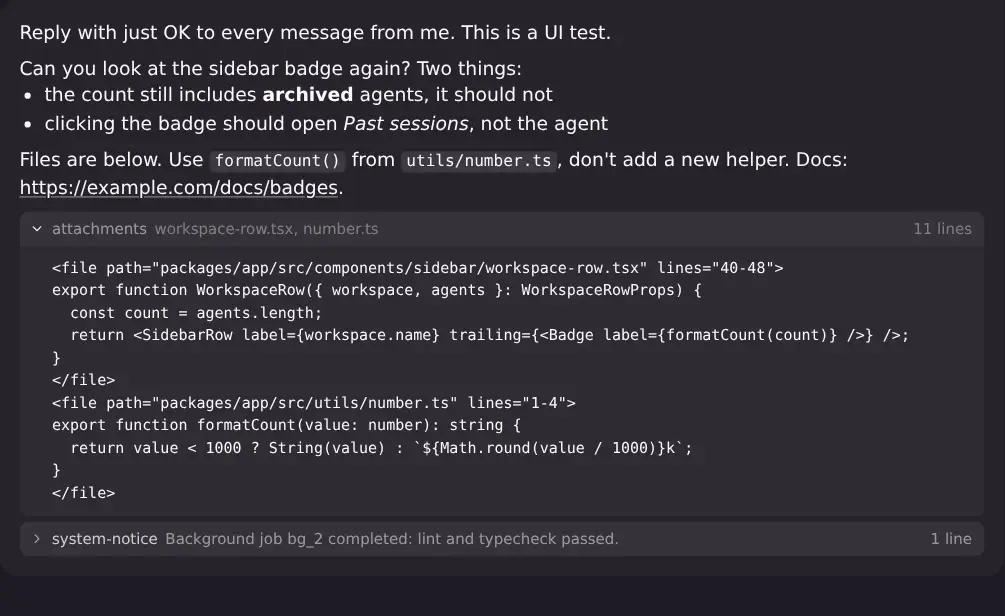
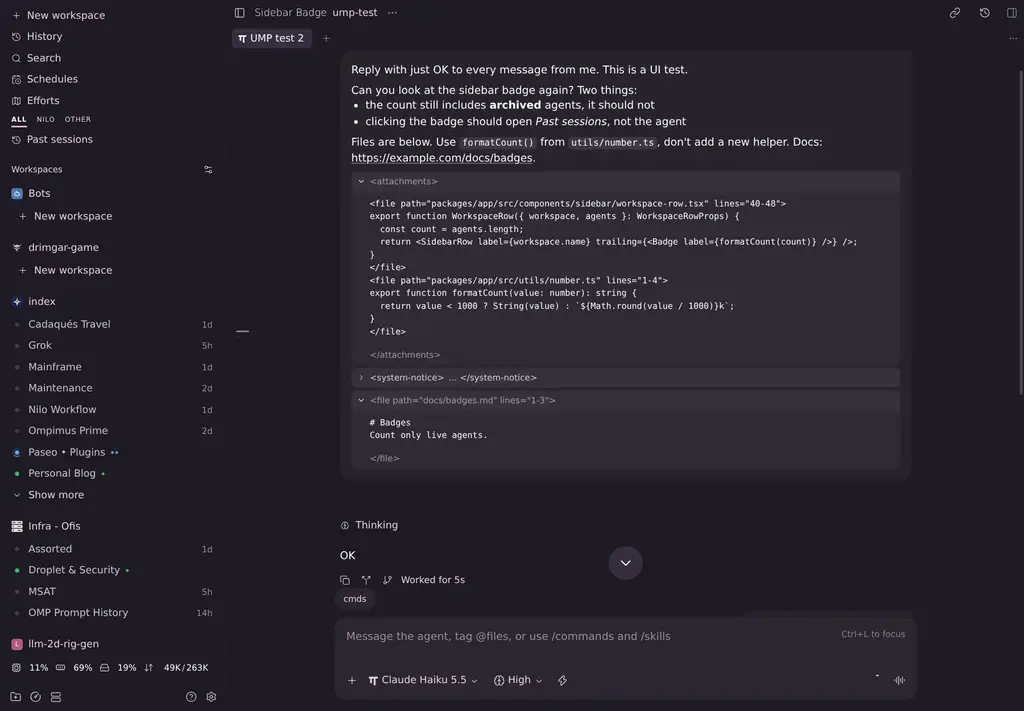
user-message-polish: show fold rows as the literal tags
Folded: '› <tag attrs> … </tag>'. Opened: the opening tag as header, the
content, and the closing tag as a footer row in the same shape. Replaces
the tag name, derived hint and line count, which hid the original text.

diff --git a/paseo-plugins/user-message-polish/client/web.ts b/paseo-plugins/user-message-polish/client/web.ts
@@ -210,24 +210,27 @@ function renderFold(fold: Extract<Segment, { kind: "fold" }>, startOpen: boolean
   chevron.append(path);
   const head = el("div", { class: "ump-head", role: "button", tabindex: "0", "data-paseo-markdown-ignore": "true" }, [
     chevron,
-    el("span", { class: "ump-tag" }, [fold.tag]),
-    el("span", { class: "ump-hint" }, [fold.hint]),
-    el("span", { class: "ump-lines" }, [`${fold.lines} ${fold.lines === 1 ? "line" : "lines"}`]),
+    el("span", { class: "ump-open" }, [fold.open]),
+    el("span", { class: "ump-shut" }, [`… ${fold.close}`]),
   ]);
-  head.title = fold.hint;
+  head.title = fold.open;
   const box = el("div", { class: "ump-fold" }, [head]);
   const setOpen = (open: boolean) => {
     box.toggleAttribute("data-open", open);
     head.setAttribute("aria-expanded", String(open));
-    if (open && box.childNodes.length === 1) box.append(el("div", { class: "ump-body", "data-pmono": "" }, [fold.body]));
-    if (!open && box.childNodes.length > 1) box.lastChild!.remove();
+    if (open && box.childNodes.length === 1) {
+      const foot = el("div", { class: "ump-head ump-foot", "data-paseo-markdown-ignore": "true" }, [fold.close]);
+      foot.addEventListener("click", toggle);
+      box.append(el("div", { class: "ump-body", "data-pmono": "" }, [fold.body]), foot);
+    }
+    if (!open) while (box.childNodes.length > 1) box.lastChild!.remove();
   };
-  setOpen(startOpen);
-  const toggle = () => {
+  function toggle() {
     const open = !box.hasAttribute("data-open");
     setOpen(open);
     remember(open);
-  };
+  }
+  setOpen(startOpen);
   head.addEventListener("click", toggle);
   head.addEventListener("keydown", (event) => {
     if (event.key !== "Enter" && event.key !== " ") return;
@@ -257,18 +260,19 @@ const CSS = `
    text steps down and the chevron goes full strength; the body is the same tint at half. */
 .ump-fold { border-radius: 8px; overflow: hidden; }
 .ump-fold + .ump-fold { margin-top: 4px; }
-.ump-head { display: flex; align-items: center; gap: 6px; height: 28px; box-sizing: border-box; padding: 0 10px 0 8px; background: ${MIX(7)}; font-size: 12px; line-height: 18px; cursor: pointer; user-select: none; -webkit-user-select: none; white-space: nowrap; }
+.ump-head { display: flex; align-items: center; gap: 6px; height: 28px; box-sizing: border-box; padding: 0 10px 0 8px; background: ${MIX(7)}; font-family: ui-monospace, SFMono-Regular, Menlo, Consolas, monospace; font-size: 12px; line-height: 18px; cursor: pointer; user-select: none; -webkit-user-select: none; white-space: nowrap; }
 .ump-head:hover { background: ${MIX(10)}; }
 .ump-head:focus-visible { outline: 1px solid ${MIX(45)}; outline-offset: -1px; border-radius: 8px; }
 .ump-chev { width: 12px; height: 12px; flex: none; fill: none; stroke: ${MIX(52)}; stroke-width: 2; stroke-linecap: round; stroke-linejoin: round; transition: transform 120ms ease; }
 .ump-fold[data-open] .ump-chev { transform: rotate(90deg); stroke: currentColor; }
-.ump-tag { flex: none; color: ${MIX(78)}; }
-/* One clamped line instead of nowrap: the full hint still sizes a wide bubble, but a long one can't
+/* One clamped line instead of nowrap: a long opening tag still sizes a wide bubble, but can't
    force the bubble wider than a narrow window (nowrap text can't shrink below its full width). */
-.ump-hint { flex: 1 1 auto; min-width: 0; display: -webkit-box; -webkit-box-orient: vertical; -webkit-line-clamp: 1; overflow: hidden; white-space: normal; overflow-wrap: anywhere; color: ${MIX(52)}; }
-.ump-lines { flex: none; margin-left: auto; color: ${MIX(52)}; }
-.ump-fold[data-open] .ump-tag { color: ${MIX(52)}; }
-.ump-fold[data-open] .ump-hint, .ump-fold[data-open] .ump-lines { color: ${MIX(38)}; }
+.ump-open { min-width: 0; display: -webkit-box; -webkit-box-orient: vertical; -webkit-line-clamp: 1; overflow: hidden; white-space: normal; overflow-wrap: anywhere; }
+.ump-open, .ump-shut { color: ${MIX(78)}; }
+.ump-shut { flex: none; }
+.ump-fold[data-open] .ump-shut { display: none; }
+.ump-fold[data-open] .ump-open, .ump-foot { color: ${MIX(52)}; }
+.ump-foot { padding-left: 26px; }
 /* width 0 + min-width 100%: opening never widens the bubble; the body wraps to the header's width. */
 .ump-body { width: 0; min-width: 100%; box-sizing: border-box; max-height: 320px; overflow: auto; padding: 8px 12px 10px 26px; background: ${MIX(3.5)}; font-family: ui-monospace, SFMono-Regular, Menlo, Consolas, monospace; font-size: 12px; line-height: 18px; white-space: pre-wrap; overflow-wrap: anywhere; user-select: text; }
 `;

diff --git a/paseo-plugins/user-message-polish/client/parse.ts b/paseo-plugins/user-message-polish/client/parse.ts
@@ -8,7 +8,7 @@ export interface FoldRules {
 
 export type Segment =
   | { kind: "text"; text: string }
-  | { kind: "fold"; tag: string; hint: string; lines: number; body: string };
+  | { kind: "fold"; tag: string; open: string; close: string; body: string };
 
 const FENCE = /^ {0,3}(`{3,}|~{3,})/;
 const OPEN = /^ {0,3}<([A-Za-z][\w.:-]*)((?:\s[^<>]*?)?)>(.*)$/;
@@ -61,11 +61,13 @@ function foldAt(lines: string[], start: number, rules: FoldRules): { segment: Se
   if (rules.never.has(tag)) return null;
   const closeAtEnd = new RegExp(`</${escape(open[1])}>\\s*$`, "i");
   const nestedOpen = new RegExp(`^\\s*<${escape(open[1])}(\\s[^<>]*)?>`, "i");
-  const attrs = open[2];
+  const openTag = lines[start].slice(0, lines[start].length - open[3].length).trim();
   const rest = open[3];
   let inner: string[] | null = null;
   let end = start;
+  let closeTag = "";
   if (closeAtEnd.test(rest)) {
+    closeTag = closeAtEnd.exec(rest)![0].trim();
     inner = [rest.replace(closeAtEnd, "")];
   } else {
     const inFence = fenceTracker();
@@ -77,6 +79,7 @@ function foldAt(lines: string[], start: number, rules: FoldRules): { segment: Se
       if (nestedOpen.test(line) && !closes && !/\/>\s*$/.test(line)) { depth++; continue; }
       if (!closes) continue;
       if (depth > 0) { depth--; continue; }
+      closeTag = closeAtEnd.exec(line)![0].trim();
       inner = [rest, ...lines.slice(start + 1, j), line.replace(closeAtEnd, "")];
       end = j;
       break;
@@ -87,26 +90,10 @@ function foldAt(lines: string[], start: number, rules: FoldRules): { segment: Se
   while (inner.length && !inner[inner.length - 1].trim()) inner.pop();
   if (inner.length < 2 && !rules.always.has(tag)) return null;
   const body = inner.join("\n");
-  return { segment: { kind: "fold", tag: open[1], hint: hintFor(attrs, body), lines: inner.length, body }, end };
+  return { segment: { kind: "fold", tag: open[1], open: openTag, close: closeTag, body }, end };
 }
 
 const escape = (text: string) => text.replace(/[.*+?^${}()|[\]\\]/g, "\\$&");
-const ATTR = /([\w:-]+)\s*=\s*(?:"([^"]*)"|'([^']*)')/g;
-const PATH_ATTRS = ["path", "file", "src", "href", "name", "title"];
-const basename = (path: string) => path.replace(/[\\/]+$/, "").split(/[\\/]/).pop() || path;
-
-/** The tag's attributes if any (a path shows as its file name), else the files inside, else the first line. */
-export function hintFor(attrs: string, body: string): string {
-  const values = new Map<string, string>();
-  for (const match of attrs.matchAll(ATTR)) values.set(match[1].toLowerCase(), match[2] ?? match[3] ?? "");
-  const named = PATH_ATTRS.find((key) => values.get(key));
-  if (named) return /path|file|src|href/.test(named) ? basename(values.get(named)!) : values.get(named)!;
-  if (values.size) return [...values.values()].filter(Boolean).slice(0, 2).join(" · ");
-  const files = [...body.matchAll(/<file\s[^>]*?(?:path|name)\s*=\s*["']([^"']+)["']/gi)].map((match) => basename(match[1]));
-  if (files.length) return files.length > 3 ? `${files.slice(0, 3).join(", ")} +${files.length - 3}` : files.join(", ");
-  const first = body.split("\n").map((line) => line.replace(/<[^>]*>/g, "").trim()).find(Boolean) ?? "";
-  return first.length > 120 ? `${first.slice(0, 120)}…` : first;
-}
 
 // ---------------------------------------------------------------------------------------------
 // Compact Markdown: the subset people type in chat. Single newlines stay line breaks, as in

diff --git a/paseo-plugins/user-message-polish/client/parse.test.ts b/paseo-plugins/user-message-polish/client/parse.test.ts
@@ -9,7 +9,7 @@ describe("fold rule", () => {
   it("folds a block tag with 2+ content lines and keeps the text around it", () => {
     const parts = segment("Look at this:\n<summary>\nline one\nline two\n</summary>\nThanks", rules);
     expect(parts.map((part) => part.kind)).toEqual(["text", "fold", "text"]);
-    expect(parts[1]).toMatchObject({ tag: "summary", lines: 2, body: "line one\nline two", hint: "line one" });
+    expect(parts[1]).toMatchObject({ tag: "summary", open: "<summary>", close: "</summary>", body: "line one\nline two" });
   });
 
   it("leaves one-line blocks, inline mentions and unclosed tags alone", () => {
@@ -20,7 +20,7 @@ describe("fold rule", () => {
 
   it("always-fold tags fold even with one line, also on one source line", () => {
     expect(folds("<system-notice>\nBackground job bg_2 completed\n</system-notice>")).toHaveLength(1);
-    expect(folds("<attachments>see file</attachments>")).toMatchObject([{ lines: 1, body: "see file" }]);
+    expect(folds("<attachments>see file</attachments>")).toMatchObject([{ open: "<attachments>", close: "</attachments>", body: "see file" }]);
   });
 
   it("never-fold tags stay text however long", () => {
@@ -30,20 +30,19 @@ describe("fold rule", () => {
   it("does not fold inside code fences, and a fence inside a block does not end it", () => {
     expect(folds("```html\n<summary>\na\nb\n</summary>\n```")).toEqual([]);
     const [fold] = folds("<context>\n```\n</context>\n```\nafter\n</context>");
-    expect(fold).toMatchObject({ lines: 4 });
+    expect(fold).toMatchObject({ body: "```\n</context>\n```\nafter" });
   });
 
   it("folds nested same-name tags as one outer block", () => {
     const text = "<context>\nouter\n<context>\ninner\nmore\n</context>\nend\n</context>\ntail";
     const parts = segment(text, rules);
     expect(parts.map((part) => part.kind)).toEqual(["fold", "text"]);
-    expect(parts[0]).toMatchObject({ lines: 6 });
+    expect(parts[0]).toMatchObject({ body: "outer\n<context>\ninner\nmore\n</context>\nend" });
   });
 
-  it("hints with a path attribute's file name, else the files inside, else the first line", () => {
-    expect(folds('<file path="src/app/main.ts">\na\nb\n</file>')[0]).toMatchObject({ hint: "main.ts" });
-    expect(folds('<attachments>\n<file path="a/x.ts">\n1\n</file>\n<file path="b/y.ts">\n2\n</file>\n</attachments>')[0])
-      .toMatchObject({ hint: "x.ts, y.ts" });
+  it("keeps the opening tag with its attributes and both tags' casing verbatim", () => {
+    expect(folds('  <File path="src/main.ts" lang=ts>\na\nb\n</file>  ')[0])
+      .toMatchObject({ open: '<File path="src/main.ts" lang=ts>', close: "</file>" });
   });
 });
 

diff --git a/paseo-plugins/user-message-polish/OVERVIEW.md b/paseo-plugins/user-message-polish/OVERVIEW.md
@@ -2,12 +2,14 @@ Makes your own sent messages nicer in the Paseo web and desktop apps: pasted tag
 one-line fold rows, and Markdown renders. The phone apps are unchanged.
 
 **Fold rows.** A block such as `<attachments>…</attachments>`, `<summary>`, `<context>` or
-`<paste>` becomes one 28 px row: chevron, tag name, a hint, and the line count on the right, e.g.
-`› attachments  workspace-row.tsx, number.ts  11 lines`. Click it (or Enter/Space) to open it in
-place: the row stays where it is, its text goes a step quieter, the chevron turns and goes full
-strength, and the content continues below in the same rounded shape at half the tint (raw text,
-monospace, at most 320 px tall, scrolls inside, long lines wrap). Stefan picked this as style B,
-opened as "B1", on `http://axalon:8080/pages/user-message-polish-mocks/`.
+`<paste>` becomes one 28 px monospace row that shows the tags as written, attributes included:
+`› <file path="docs/badges.md"> … </file>`. Click it (or Enter/Space) to open it in place: the row
+stays where it is as the header and shows only the opening tag, its text goes a step quieter, the
+chevron turns and goes full strength, the content continues below in the same rounded shape at
+half the tint (raw text, at most 320 px tall, scrolls inside, long lines wrap), and a footer row
+with the closing tag ends the shape; clicking the footer folds it too. Stefan picked style B,
+opened as "B1", on `http://axalon:8080/pages/user-message-polish-mocks/`, then asked for literal
+tags instead of a tag name, hint and line count.
 
 - What folds: the opening tag starts a line, a matching closing tag ends a later line (or the
   same line), and the content has 2+ lines. Same-name tags nested inside are part of one fold;
@@ -18,8 +20,7 @@ opened as "B1", on `http://axalon:8080/pages/user-message-polish-mocks/`.
   `attachments, system-notice, system-reminder`) and **Never fold** (stays text however long;
   default `div, span, p, br, b, i, em, strong, u, s, a, img, code, pre, kbd, details, table, ul,
   ol, li`), plus "Reset to defaults". Changes apply at once in every open window.
-- Hint: the tag's path attribute as a file name (`path="src/app/main.ts"` → `main.ts`), else its
-  other attributes, else the file names of `<file path=…>` entries inside, else the first line.
+- A long opening tag is cut to one line in the row; hovering shows it whole.
 
 **Markdown.** Bold, italic, strikethrough, inline code, fenced code (language kept), links and bare
 URLs (open in a new tab), bullet and numbered lists (nested), quotes, headings (bold, body size),
